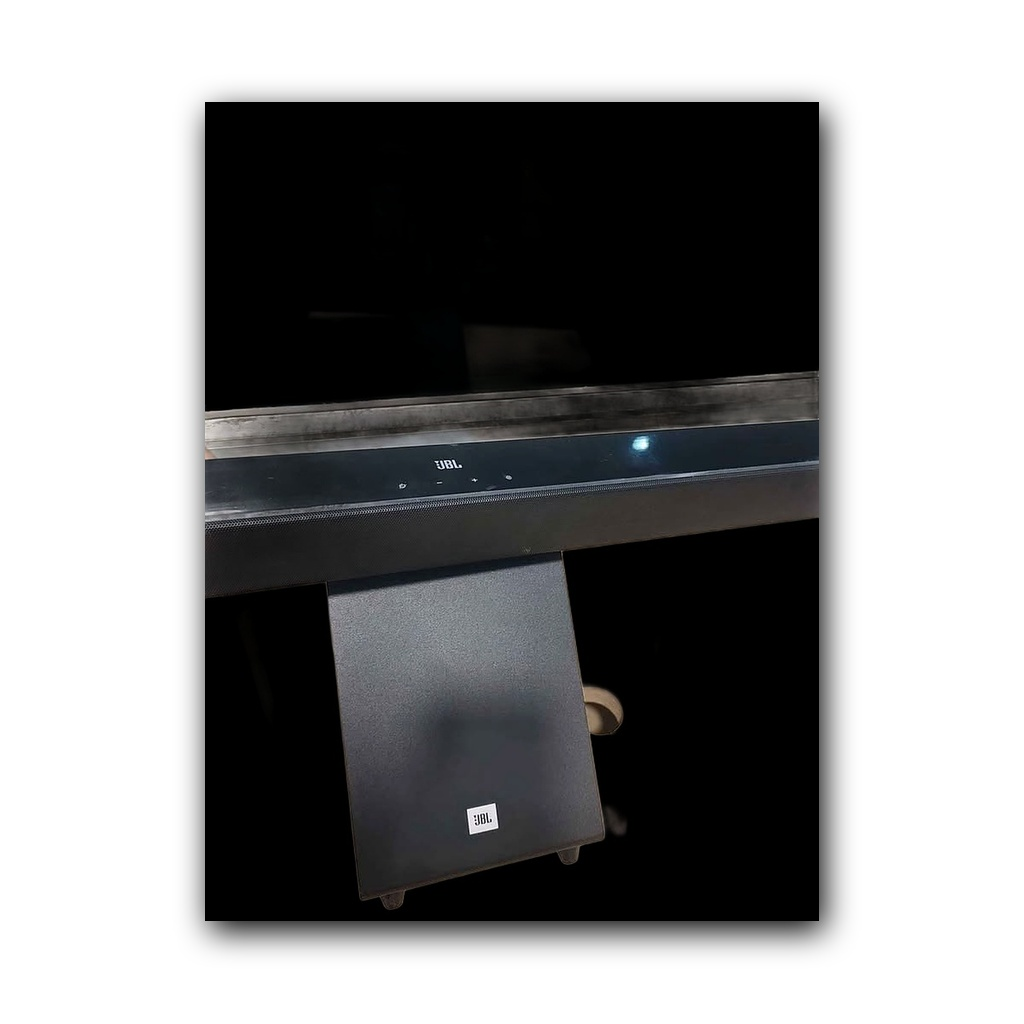
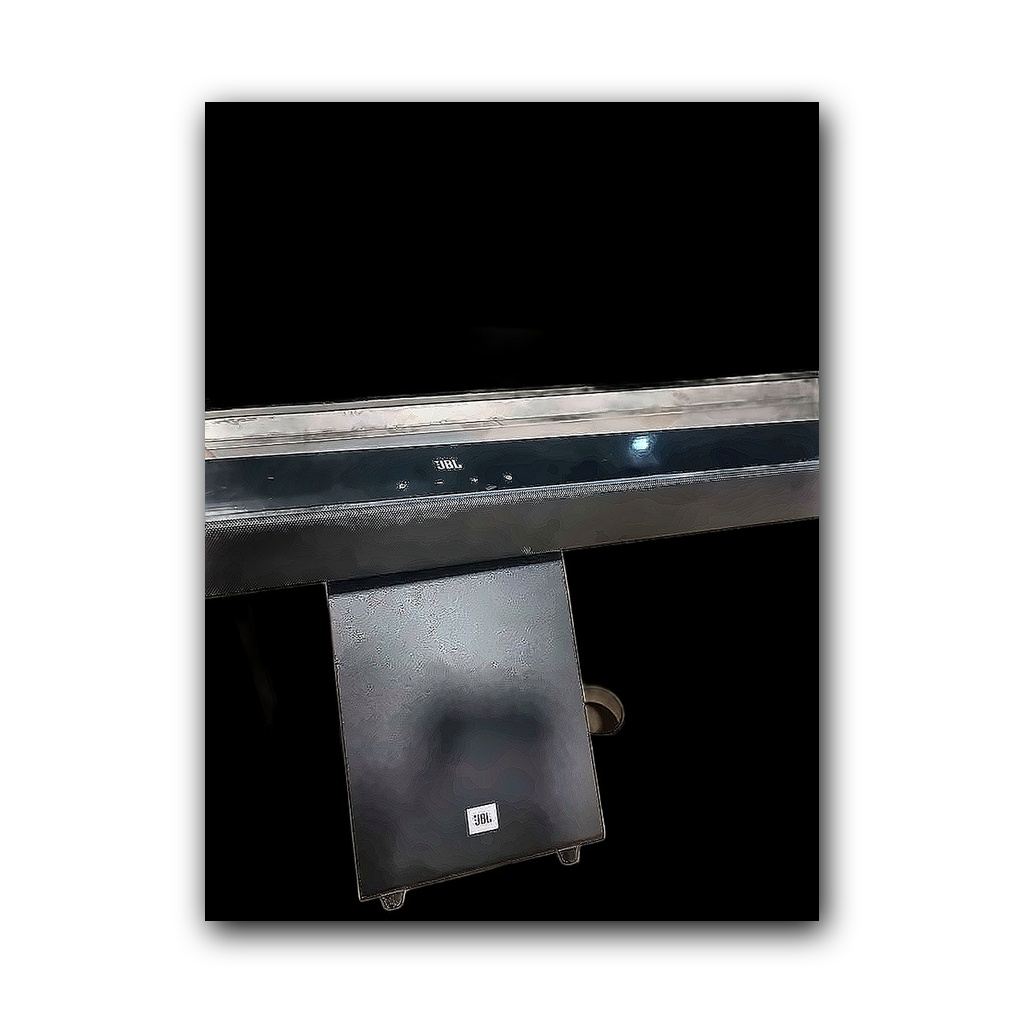
feat(ai): Add EnhanceService for studio lighting and revert auto-crop

diff --git a/src/pages/MyListings.jsx b/src/pages/MyListings.jsx
@@ -98,6 +98,12 @@ const MyListings = () => {
                             </div>
                         ))}
                     </div>
+                ) : (
+                    <div className="text-center py-20 bg-white/5 rounded-2xl border border-white/10">
+                        <h3 className="text-xl font-bold text-white mb-2">No active listings</h3>
+                        <p className="text-gray-400 mb-6">You haven't listed anything yet.</p>
+                        <Link to="/sell" className="btn btn-outline">Create First Listing</Link>
+                    </div>
                 )}
             </div>
 

diff --git a/ai-engine/app/services/showcase_service.py b/ai-engine/app/services/showcase_service.py
@@ -29,6 +29,15 @@ def get_upscale_service():
         print("⚠ Upscale service not available")
         return None
 
+# Import enhance service
+def get_enhance_service():
+    try:
+        from .enhance_service import enhance_service
+        return enhance_service
+    except ImportError:
+        print("⚠ Enhance service not available")
+        return None
+
 class ShowcaseService:
     """
     Creates professional e-commerce showcase photos with clean backgrounds.
@@ -37,6 +46,7 @@ class ShowcaseService:
     def __init__(self):
         self.remove_bg, self.rembg_session = get_rembg()
         self.upscale_service = get_upscale_service()
+        self.enhance_service = get_enhance_service()
         print("📸 Showcase Service initialized")
     
     async def create_showcase(
@@ -52,15 +62,21 @@ class ShowcaseService:
         """
         Creates a professional showcase photo.
         
-        1. Remove background from product image
-        2. Add clean white/gradient background
-        3. Center product with proper padding
-        4. Add subtle shadow for depth
+        1. VALIDATE & ENHANCE: Fix lighting/color on raw photo
+        2. SEGMENT: Remove background
+        3. COMPOSITE: Place on white/gradient background
         """
         import time
         start = time.time()
         
         try:
+            # Step 0: Pre-enhancement (Lighting/Color) - NEW
+            if self.enhance_service:
+                print("   ✨ Step 0: Enhancing lighting and details...")
+                enhance_start = time.time()
+                image_bytes = self.enhance_service.enhance_product(image_bytes)
+                print(f"      ✅ Enhanced in {time.time()-enhance_start:.2f}s")
+
             # Step 1: Remove background
             print("   ✂ Step A: Removing background...")
             step_start = time.time()
@@ -97,11 +113,6 @@ class ShowcaseService:
                 print("      ⚠ rembg not available, using original")
                 fg_image = Image.open(io.BytesIO(image_bytes)).convert("RGBA")
             
-            # Step 1.8: Trim transparency (Smart Crop) - NEW
-            print("   ✂ Step A.8: Trimming transparency...")
-            fg_image = self._trim_transparency(fg_image)
-            print(f"      ✅ Trimmed to {fg_image.width}x{fg_image.height}")
-            
             # Step 2: Create background
             print(f"   🎨 Step B: Creating {background} background...")
             if background == "gradient":
@@ -123,6 +134,7 @@ class ShowcaseService:
                 shadow = self._create_shadow(fg_image, output_size)
                 bg_image = Image.alpha_composite(bg_image, shadow)
                 print("      ✅ Shadow added")
+            
             
             # Step 5: Composite final image
             print("   🔄 Step E: Compositing final image...")
@@ -171,13 +183,6 @@ class ShowcaseService:
         except Exception as e:
             print(f"❌ Showcase creation failed: {e}")
             raise e
-            
-    def _trim_transparency(self, img: Image.Image) -> Image.Image:
-        """Crops transparent borders from image"""
-        bbox = img.getbbox()
-        if bbox:
-            return img.crop(bbox)
-        return img
     
     def _create_gradient_bg(self, size: tuple) -> Image.Image:
         """Creates a subtle gradient background"""

diff --git a/ai-engine/app/services/enhance_service.py b/ai-engine/app/services/enhance_service.py
@@ -1,0 +1,66 @@
+import cv2
+import numpy as np
+from PIL import Image
+import io
+
+class EnhanceService:
+    """
+    Enhances raw product photos to look like studio shots.
+    Features:
+    - Lighting Correction (CLAHE) - Fixes shadows/exposure on the object
+    - Denoising - Removes grain from low-light shots
+    - Color Balancing - Ensures natural colors
+    """
+    
+    def enhance_product(self, image_bytes: bytes) -> bytes:
+        """
+        Applies a 'Studio' filter to the raw image bytes.
+        Returns enhanced image bytes.
+        """
+        try:
+            # Convert bytes to numpy array for OpenCV
+            nparr = np.frombuffer(image_bytes, np.uint8)
+            img = cv2.imdecode(nparr, cv2.IMREAD_COLOR)
+            
+            if img is None:
+                raise ValueError("Could not decode image")
+
+            # --- Step 1: Denoise ---
+            # Remove grain/noise which is common in phone photos
+            # h=3 is mild, keeps details but reduces speckles
+            img = cv2.fastNlMeansDenoisingColored(img, None, 3, 3, 7, 21)
+
+            # --- Step 2: Lighting Correction (CLAHE) ---
+            # Convert to LAB color space to separate Luminance from Color
+            lab = cv2.cvtColor(img, cv2.COLOR_BGR2LAB)
+            l, a, b = cv2.split(lab)
+            
+            # Apply Contrast Limited Adaptive Histogram Equalization to L channel
+            # This brings out details in shadows without blowing out highlights
+            clahe = cv2.createCLAHE(clipLimit=2.0, tileGridSize=(8,8))
+            cl = clahe.apply(l)
+            
+            # Merge enhanced L with original A/B
+            limg = cv2.merge((cl, a, b))
+            enhanced_img = cv2.cvtColor(limg, cv2.COLOR_LAB2BGR)
+            
+            # --- Step 3: Mild Sharpening ---
+            # Brings out texture details (like speaker mesh)
+            kernel = np.array([[0, -1, 0], 
+                               [-1, 5,-1], 
+                               [0, -1, 0]])
+            enhanced_img = cv2.filter2D(enhanced_img, -1, kernel)
+
+            # Convert back to bytes (JPEG)
+            success, encoded_img = cv2.imencode('.jpg', enhanced_img, [int(cv2.IMWRITE_JPEG_QUALITY), 95])
+            if not success:
+                raise ValueError("Could not encode enhanced image")
+                
+            return encoded_img.tobytes()
+
+        except Exception as e:
+            print(f"⚠ Enhancement failed: {e}. Returning original.")
+            return image_bytes
+
+# Singleton
+enhance_service = EnhanceService()
